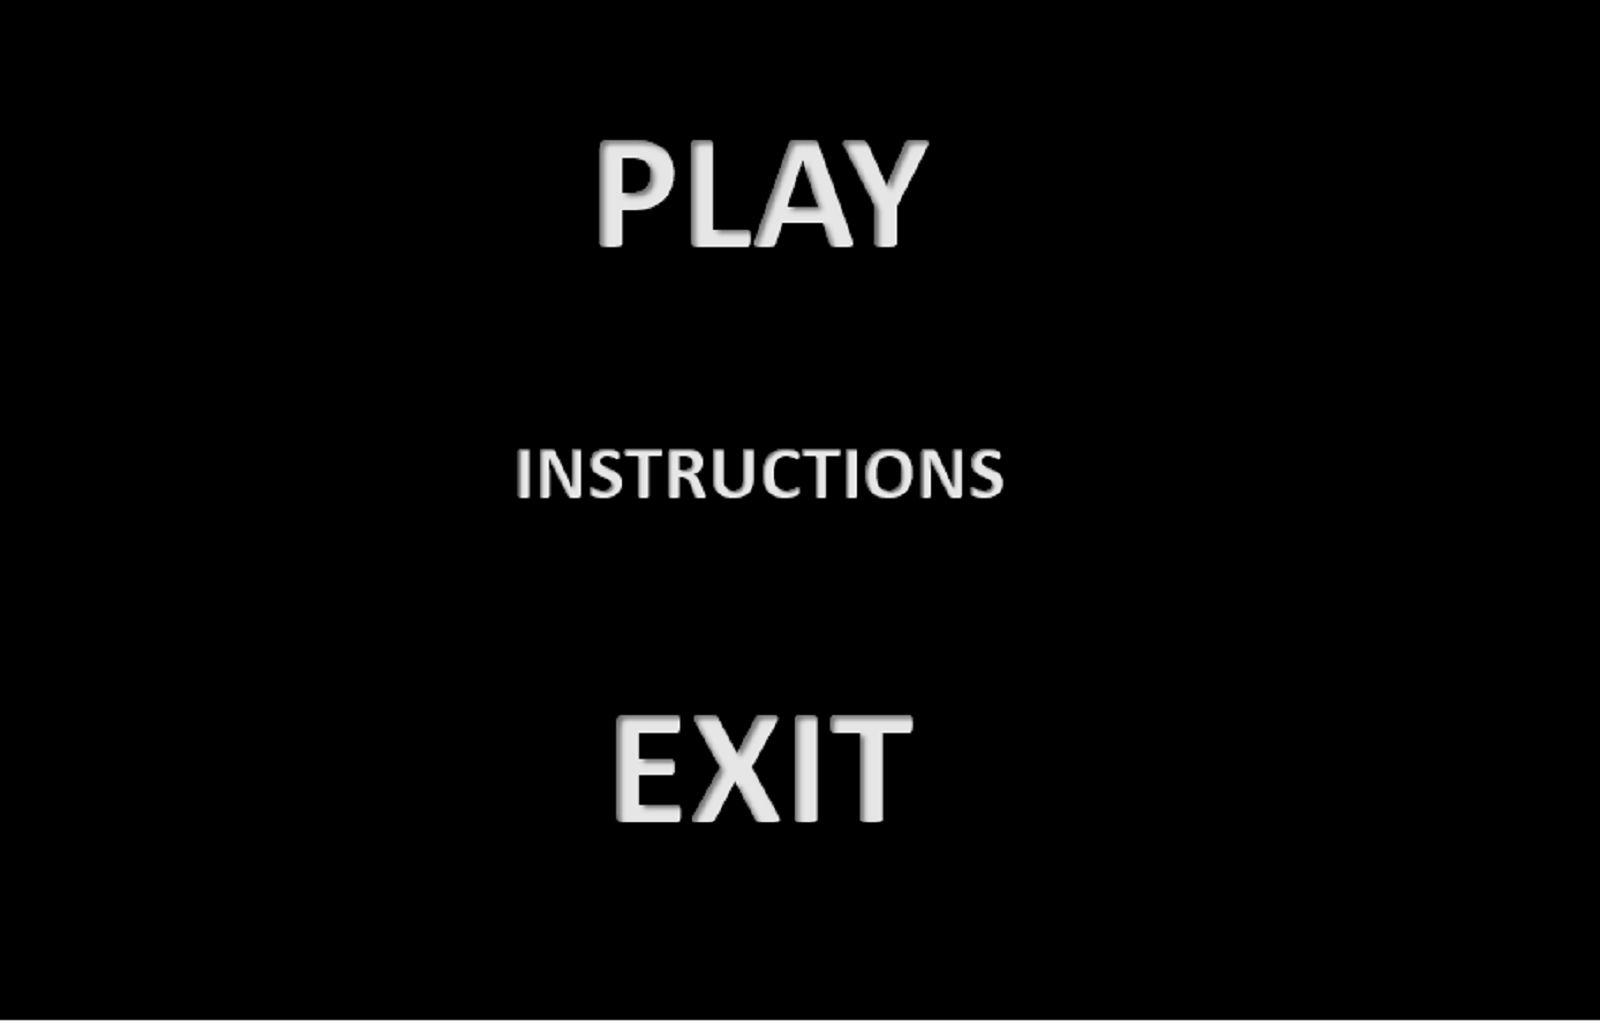
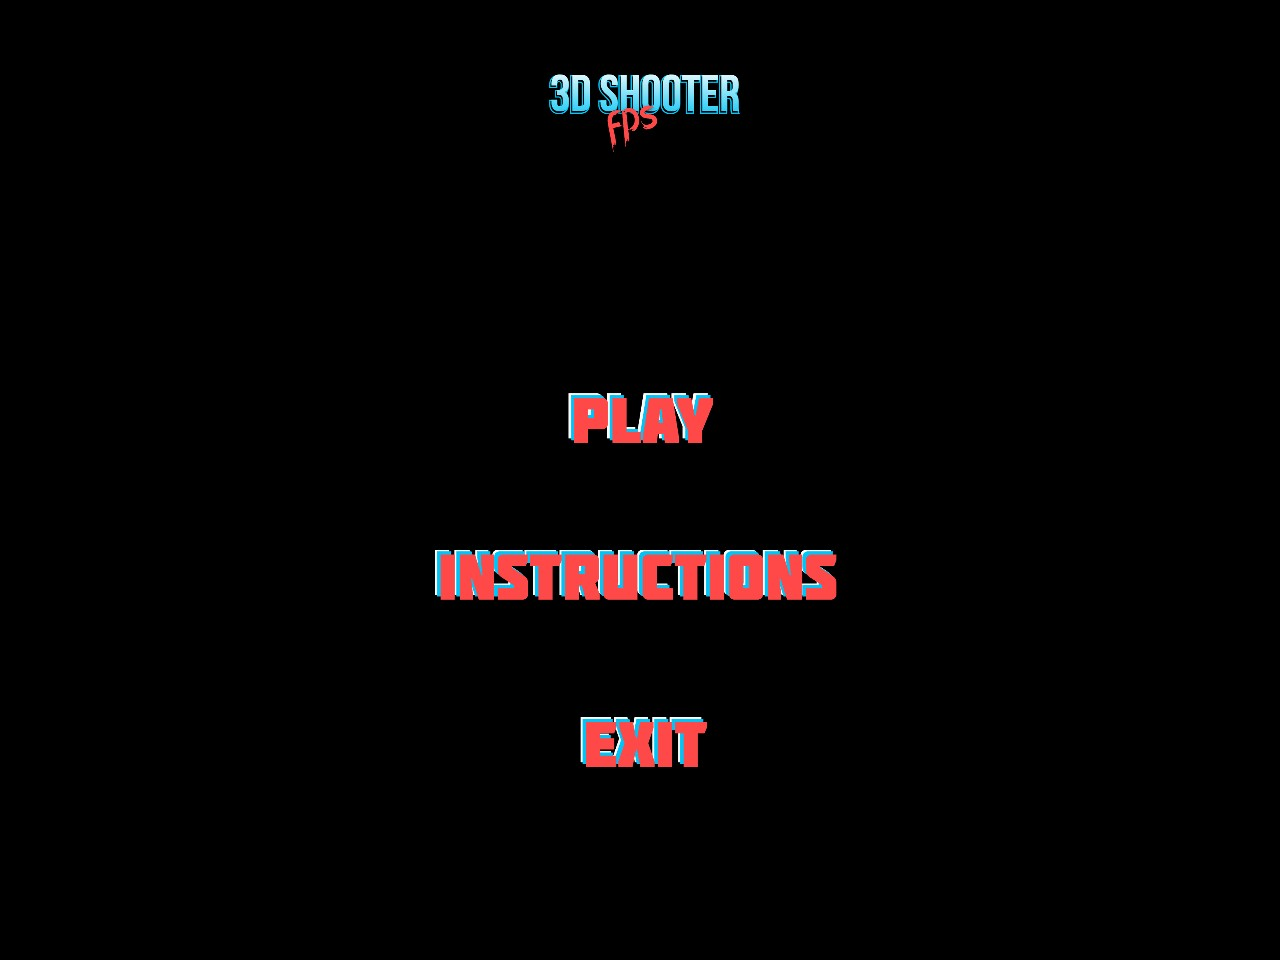
Remade screens, unstable.

diff --git a/client.py b/client.py
@@ -13,10 +13,10 @@ from random import randint
 
 def game():
     # making a connection with the server
-    connection = Connection("192.168.4.92", 1729)
+    connection = Connection("127.0.0.1", 1729)
     # initialzing pygame to use opengl
     pygame.init()
-    display = (1600, 1024)
+    display = (1280, 960)
     screen = pygame.display.set_mode(display, DOUBLEBUF | OPENGL)
 
     # enables depth testing (making sure closer object are in the front of the screen)
@@ -51,6 +51,7 @@ def game():
 
     paused = False
     run = True
+    game_done = False
 
     speed = [0, 0, 0]
     # global vars
@@ -91,7 +92,9 @@ def game():
     delta_time = 1
     prev_time = time()
 
-    while run:
+    update_data = []
+
+    while run and not game_done:
         delta_time = time() - prev_time
         prev_time = time()
 
@@ -151,7 +154,7 @@ def game():
             # *updating players*
             # [i] update data in gl cs
             objects.players = {}
-            update_data = connection.update_data(player1)
+            game_done, update_data = connection.update_data(player1)
             if update_data:
                 for c, player in update_data.items():
                     if c == player1.color:
@@ -205,37 +208,50 @@ def game():
             glPopMatrix()
     pygame.quit()
 
+    if game_done:
+        display_results(update_data, screen)
+
+
+def display_results(update_data, screen):
+
+
 def instructions(screen):
     instructions_screen = pygame.image.load("instructions.png").convert_alpha()
     screen.blit(instructions_screen, (0, 0))
     pygame.display.flip()
     # exit when esc is pressed
-    while True:
+    inInstructions = True
+    while inInstructions:
+        mouse_pos = pygame.mouse.get_pos()
+        if (pygame.mouse.get_pressed()[0] and 120 < mouse_pos[0] < 360 and 60 < mouse_pos[1] < 120):
+            inInstructions = False
         for event in pygame.event.get():
-            if event.type == QUIT or (event.type == KEYDOWN and event.key == K_ESCAPE):
-                break
+            if (event.type == QUIT or (event.type == KEYDOWN and event.key == K_ESCAPE)):
+                inInstructions = False
     start_screen = pygame.image.load("screen.png").convert_alpha()
     screen.blit(start_screen, (0, 0))
     pygame.display.flip()
 
 
 def main():
-    screen = pygame.display.set_mode([1600, 1024])
+    screen = pygame.display.set_mode([1280, 960])
     start_screen = pygame.image.load("screen.png").convert_alpha()
     screen.blit(start_screen, (0, 0))
     pygame.display.flip()
-    waiting = True
-    while waiting:
-        for event in pygame.event.get():
-            if event.type == pygame.QUIT or (pygame.mouse.get_pressed()[0] and 610 < mouse_pos[0] < 920 and 710 < mouse_pos[1] < 820):
+    readyToPlay = False
+    while not readyToPlay:
+        mouse_pos = pygame.mouse.get_pos()
+        if pygame.mouse.get_pressed()[0]:
+            if 560 < mouse_pos[0] < 720 and 390 < mouse_pos[1] < 440:
+                readyToPlay = True
+            if 430 < mouse_pos[0] < 830 and 550 < mouse_pos[1] < 600:
+                instructions(screen)
+            if pygame.mouse.get_pressed()[0] and 580 < mouse_pos[0] < 710 and 710 < mouse_pos[1] < 770:
                 exit()
-            mouse_pos = pygame.mouse.get_pos()
-            print(mouse_pos)
-            if pygame.mouse.get_pressed()[0]:
-                if 600 < mouse_pos[0] < 930 and 140 < mouse_pos[1] < 250:
-                    waiting = False
-                if 510 < mouse_pos[0] < 1010 and 450 < mouse_pos[1] < 500:
-                    instructions(screen)
+        for event in pygame.event.get():
+            if (event.type == QUIT or (event.type == KEYDOWN and event.key == K_ESCAPE)):
+                exit()
+    print("play")
     pygame.quit()
     game()
     main()
